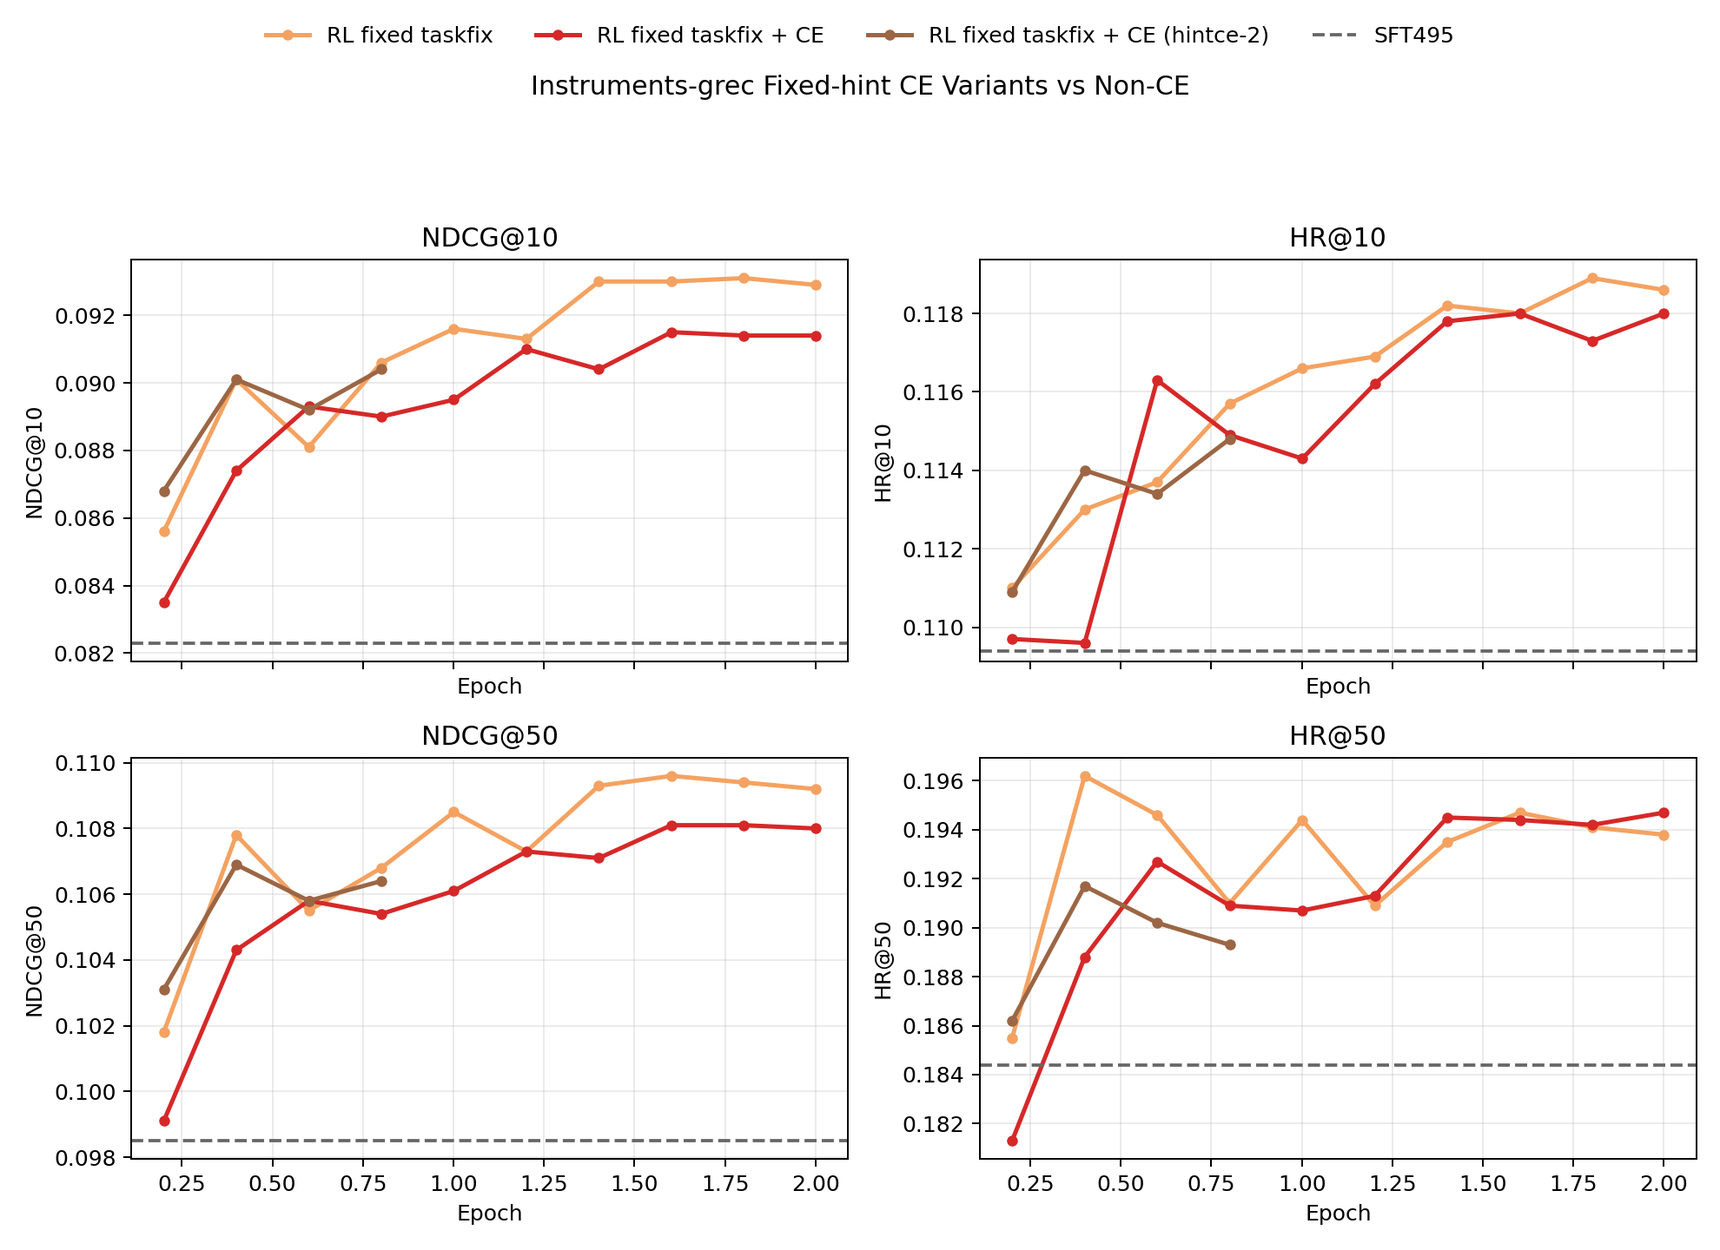
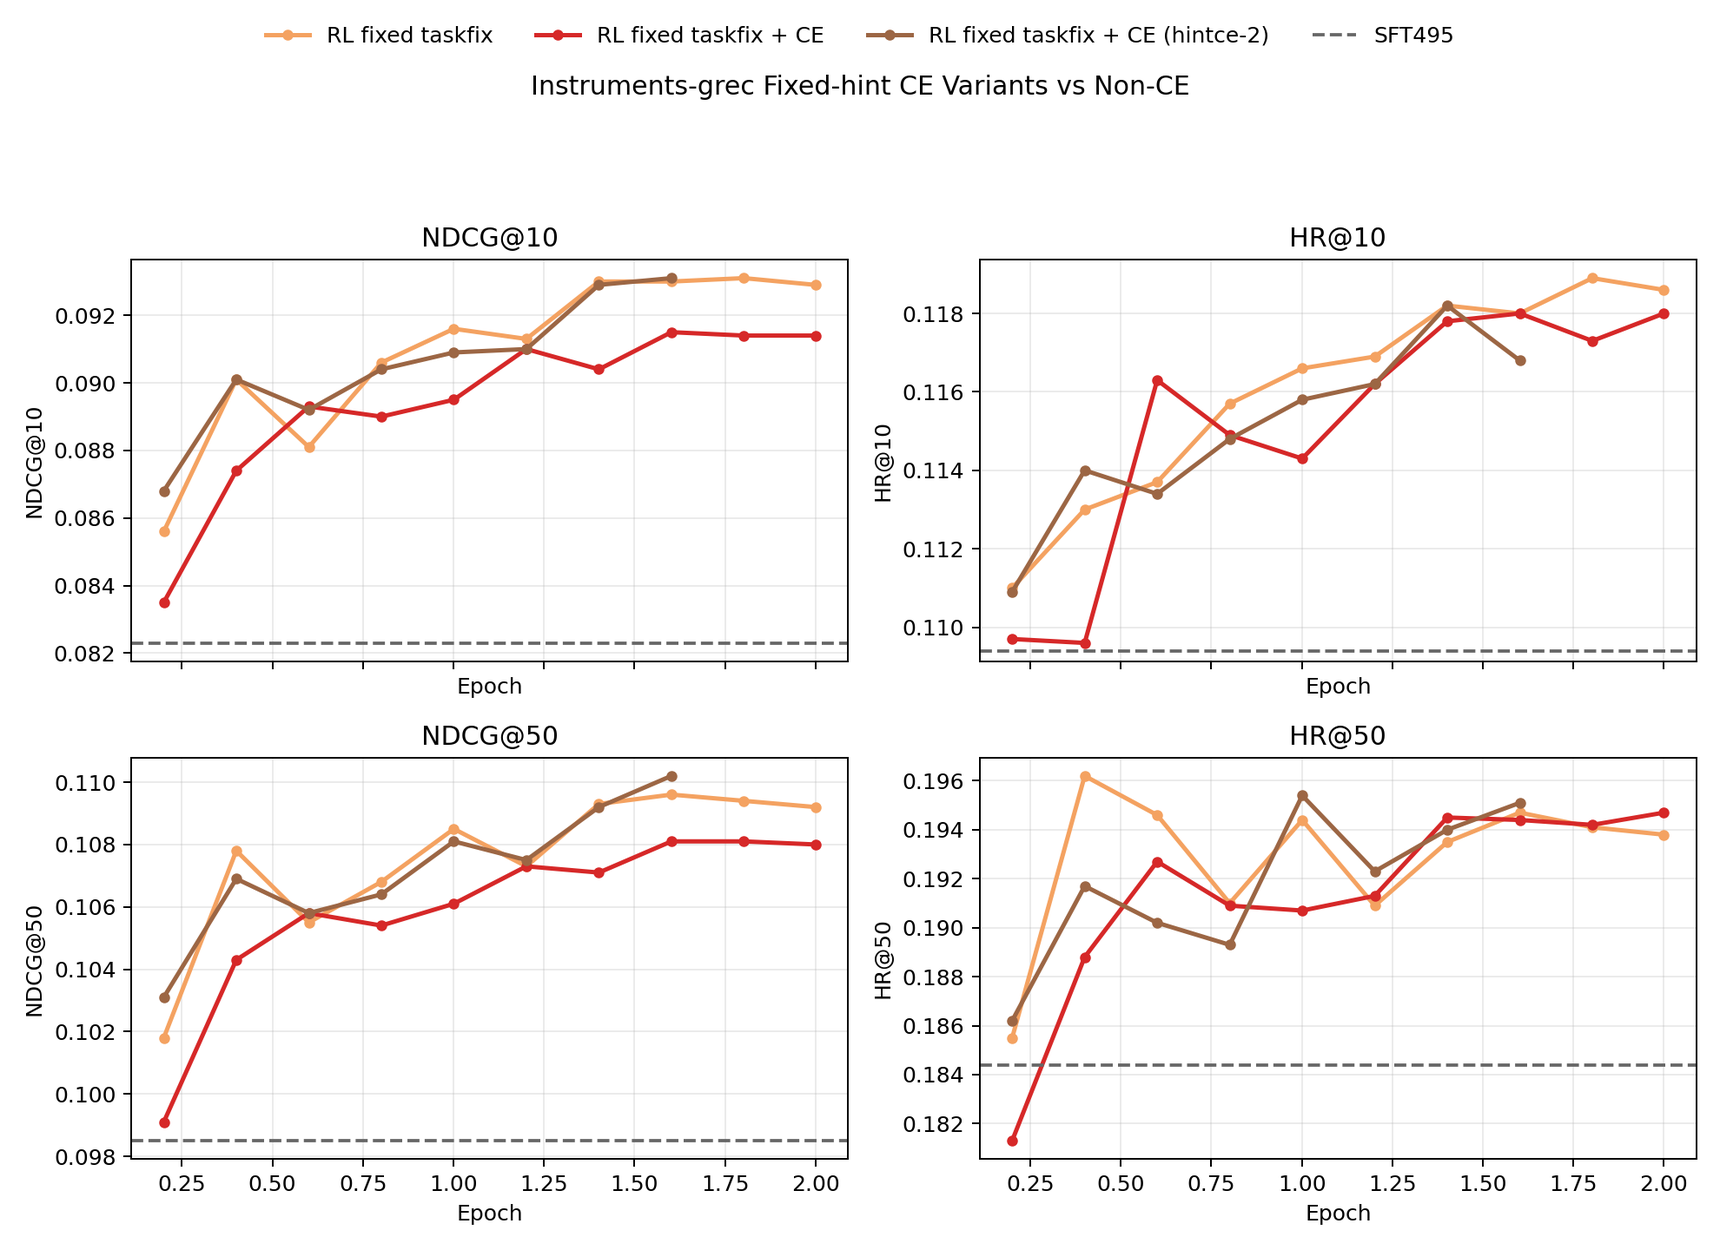
docs(rl): refresh hintce2 and max1 analysis

diff --git a/docs/2026-04-16-instruments-dynamic-hint-max1-ablation.md b/docs/2026-04-16-instruments-dynamic-hint-max1-ablation.md
@@ -1,8 +1,8 @@
 # Instruments Dynamic-Hint Max1 消融结果（2026-04-16）
 
 - Record date: 2026-04-16
-- Last updated: 2026-04-16
-- Status: 已同步 `max1` 结果并完成基于 `checkpoint-*/metrics.json` 的首轮分析；当前只同步到 `checkpoint-1665`，按与长跑 dynamic 线一致的 `3326 step = 2 epoch` 口径，这大约是 `epoch≈1.001`。训练日志和 train-time 标量还没一起同步回来，所以这篇 note 目前只覆盖 eval 侧证据。
+- Last updated: 2026-04-17
+- Status: 已同步 `max1` 结果并完成基于 `checkpoint-*/metrics.json` 的第二轮分析；当前已经同步到 `checkpoint-2997`，按与长跑 dynamic 线一致的 `3326 step = 2 epoch` 口径，这大约是 `epoch≈1.802`。训练日志和 train-time 标量还没一起同步回来，所以这篇 note 目前仍然只覆盖 eval 侧证据。
 - Goal: 在 `Instruments-grec` 上做一个最小改动的 `dynamic hint` 消融，只把 online hint budget 从 `<=3` 收紧到 `<=1`，不改 trainer 逻辑，不引入 no-hit 样本丢弃，然后看它和现有 dynamic / no-hint / fixed-hint 参考线相比到底落在什么位置。
 
 ## 1. 这次实验到底改了什么
@@ -74,7 +74,7 @@
 | `rule_only rerun` | `checkpoint-2997` | 1.802 | 0.0960 | 0.1179 | 0.1070 | 0.1681 | top-10 极值线，但 coverage 很低 |
 | `dynamic hint sid-only` | `checkpoint-2394` | 1.805 | 0.0921 | 0.1155 | 0.1065 | 0.1830 | 早期有 gain，后面偏平 |
 | `dynamic hint gather-fix` | `checkpoint-2997` | 1.802 | 0.0936 | 0.1169 | 0.1083 | 0.1855 | 当前长跑 dynamic baseline |
-| `dynamic hint max1` | `checkpoint-1332` | 0.801 | 0.0934 | 0.1158 | 0.1095 | 0.1905 | 还没跑满 2 epoch，但 top-10 已几乎追平 gather-fix |
+| `dynamic hint max1` | `checkpoint-1332` | 0.801 | 0.0934 | 0.1158 | 0.1095 | 0.1905 | best 点仍停在中前段，后续长尾并没有继续刷新 |
 | corrected `fixed taskfix sid-only` | `checkpoint-2652` | 2.000 | 0.0945 | 0.1205 | 0.1103 | 0.1935 | 当前 clean hint 上界参考 |
 
 按各自 best `NDCG@10` 点比较，`max1` 的关键差值是：
@@ -95,7 +95,7 @@
 | `dynamic hint max1` | `checkpoint-999` | 0.601 | 0.1907 | 0.0925 | peak coverage 略低于 gather-fix，但高于 sid-only 和 rule_only |
 | corrected `fixed taskfix sid-only` | `checkpoint-2652` | 2.000 | 0.1935 | 0.0945 | 仍然是更强的 clean hint 参考 |
 
-如果只看 coverage 峰值，`max1` 还没有超过 `dynamic gather-fix`，差 `0.0024` `HR@50`。但它比 `dynamic sid-only` 高 `0.0039`，比 `rule_only rerun` 高 `0.0139`，因此至少可以确认它不是“hint budget 收紧后 coverage 直接塌掉”的失败 run。更重要的是，这个 peak 发生在 `epoch≈0.601`，也就是它离完整 2 epoch 还早。
+如果只看 coverage 峰值，`max1` 还没有超过 `dynamic gather-fix`，差 `0.0024` `HR@50`。但它比 `dynamic sid-only` 高 `0.0039`，比 `rule_only rerun` 高 `0.0139`，因此至少可以确认它不是“hint budget 收紧后 coverage 直接塌掉”的失败 run。更重要的是，这个 peak 发生在 `epoch≈0.601`，而且后续同步到 `2997` 之后也没有再被刷新。
 
 ### 3.3 共享 checkpoint 的 readout
 
@@ -108,12 +108,17 @@
 | `999` | `0.0925 / 0.1907` | `0.0912 / 0.1905` | `0.0936 / 0.1768` |
 | `1332` | `0.0934 / 0.1905` | `0.0926 / 0.1931` | `0.0945 / 0.1754` |
 | `1665` | `0.0929 / 0.1879` | `0.0933 / 0.1902` | `0.0950 / 0.1743` |
+| `1998` | `0.0915 / 0.1807` | `0.0928 / 0.1857` | `0.0949 / 0.1663` |
+| `2331` | `0.0918 / 0.1776` | `0.0927 / 0.1863` | `0.0953 / 0.1659` |
+| `2664` | `0.0921 / 0.1779` | `0.0930 / 0.1853` | `0.0959 / 0.1684` |
+| `2997` | `0.0920 / 0.1783` | `0.0936 / 0.1855` | `0.0960 / 0.1681` |
 
 从这张表里可以读出三个更细的现象：
 
 - `max1` 在 very early 到 mid phase 不是保守的。它在 `333`（约 `epoch≈0.200`）时就比 `gather-fix` 多 `+0.0031` `NDCG@10`，而 `HR@50` 基本持平。
 - 到 `999` 时，`max1` 已经实现了比 `gather-fix` 更高的 `NDCG@10`，同时 `HR@50` 还略高 `+0.0002`。这说明“浅 hint budget 不一定只能换来更像 `rule_only` 的曲线”，它也可能把 dynamic family 重新推到更好的平衡区。
-- 但 `1665` 这个点提醒我们别过早下结论：按参考口径它只到 `epoch≈1.001`，此时 `gather-fix` 又在四指标上略微反超 `max1`。所以当前更准确的描述是“`max1` 前中期很强”，而不是“它已经无条件支配 `gather-fix`。”
+- 但扩到 `1998/2331/2664/2997` 之后，趋势已经很清楚了：`max1` 在 `epoch≈1.0` 之后持续回落。到 `checkpoint-2997`，它相对自己 best 点少了 `0.0014` `NDCG@10`、少了 `0.0034` `NDCG@50`、少了 `0.0122` `HR@50`。
+- 所以当前更准确的描述已经从“前中期很强”进一步收敛成：“`max1` 是一个明显的 early-stop candidate，但不是更强的 long-run default。”
 
 ## 4. Figure
 
@@ -126,7 +131,7 @@
 - `max1` 明显不是简单退化成 `rule_only`。两条线在 `NDCG@10` 上确实更接近了，但 `max1` 的 `HR@50` 始终高得多，尤其在 `999~1665` 区间一直维持在 `0.188~0.191`，而 `rule_only` 只有 `0.174~0.177`。
 - `max1` 也不是单纯被现有 dynamic baseline 支配。它在 `333/999/1332` 这几个关键点上都能给出比 `gather-fix` 更高的 `NDCG@10`，而 coverage 只在 `666/1332/1665` 这些点略输。
 - 但 `max1` 目前还没有把 fixed-hint upper bound 打穿。corrected `fixed taskfix sid-only` 仍然在四个面板里整体压在更右上侧，说明 “把 dynamic budget 收浅” 和 “直接给更稳定的 fixed hint scaffold” 还是两件事。
-- 由于 `max1` 只同步到 `1665`（约 `epoch≈1.001`），图上真正该读的是“它到中段为止的曲线形状”。如果后面继续跑到 `1998/2331/2664/2997/3326`，它是会像 `gather-fix` 一样继续稳住，还是会像某些 early-strong run 一样回落，现在还不能仅凭这张图决定。
+- 这次最重要的新信息就是：`max1` 现在已经同步到 `2997`（约 `epoch≈1.802`），而后半程走势基本确认了“回落而不是稳住”。换句话说，之前那个“也许只是还没跑完”的保留判断，现在已经大幅收窄了。
 
 ### 4.2 Focused Four-way Comparison
 
@@ -136,22 +141,22 @@
 
 这张四线图只保留 `fixed taskfix`、old `fixed`、`dynamic gather-fix` 和 `max1`，更适合回答“`max1` 到底是在追哪一类行为”：
 
-- `max1` 和 `dynamic gather-fix` 仍然是最接近的一对。两条 dynamic 线在 `333~1665` 的大部分区间都缠得很紧，说明 `max1` 不是跳到了完全不同的方法族。
-- 但 `max1` 在 `NDCG@50 / HR@50` 上明显更往 fixed family 靠。尤其在 `999/1332` 这两个点，它已经把 coverage 拉到接近 corrected `fixed taskfix` 的区间，而 `dynamic gather-fix` 还要再低一些。
+- `max1` 和 `dynamic gather-fix` 在前半程仍然是最接近的一对。两条 dynamic 线在 `333~1665` 的大部分区间都缠得很紧，说明 `max1` 不是跳到了完全不同的方法族。
+- 但新的长尾点把另一件事也说清楚了：`max1` 只是“前半程更往 fixed family 靠”，而不是整条曲线都更靠。到 `1998` 之后，它的 `HR@50` 很快滑到 `0.18` 左右，而 `dynamic gather-fix` 仍稳在 `0.185~0.186` 上方。
 - corrected `fixed taskfix` 依旧保留了最强的 coverage spike，old `fixed` 则给出更平的历史高位平台。把这两条线放进来之后，可以更清楚地看到：`max1` 目前更像是在 dynamic family 内部向 fixed trade-off 靠拢，而不是已经真正进入 fixed family 的 top-right 区域。
 - 这也是为什么我现在更愿意把 `max1` 叫作“最有希望的 shallow-budget dynamic”，而不是直接叫它新的 fixed 替代品。
 
 ## 5. Conclusions
 
-1. `max1` 当前可以算是最有希望的 shallow-budget dynamic 变体。按 best-point 看，它几乎追平 `dynamic gather-fix` 的 top-10，但把 `HR@50` 提高了 `+0.0050`。
+1. `max1` 仍然是最有意思的 shallow-budget dynamic 变体之一，但新的长尾结果说明它更像一个 early-stop 候选，而不是新的长期默认线。按 best-point 看，它几乎追平 `dynamic gather-fix` 的 top-10，并把 `HR@50` 提高了 `+0.0050`；但这些优势都停在前半程。
 2. 相比 `rule_only rerun`，`max1` 很明确地买回了 coverage，而且代价没有想象中大。它只丢了 `0.0026` `NDCG@10`，却多了 `0.0224` `HR@50`。
-3. `max1` 还没有超过 corrected `fixed taskfix sid-only` 这条 clean fixed 参考线，所以当前更稳妥的定位不是“新最优方法”，而是“当前 dynamic family 里最接近 fixed trade-off 的候选”。
-4. 现在最该防的误读是把这条 run 直接定性成“已经优于 gather-fix”。更严谨的说法是：它在 `333~1332`（约 `epoch≈0.200~0.801`）的前中期表现非常强，但到 `1665`（约 `epoch≈1.001`）时 `gather-fix` 又稍微拿回了优势。
+3. `max1` 还没有超过 corrected `fixed taskfix sid-only` 这条 clean fixed 参考线，所以当前更稳妥的定位不是“新最优方法”，而是“当前 dynamic family 里一个值得 early-stop 的候选”。
+4. 现在最该防的误读已经不只是“它可能还没跑完”。更严谨的说法是：它在 `333~1332`（约 `epoch≈0.200~0.801`）的前中期表现非常强，但从 `1665` 往后就开始持续落后于 `gather-fix`，而且这个差距在 `1998~2997` 区间已经稳定存在。
 5. 因为 train-time 日志还没同步回来，这篇 note 只能支持 eval-side 结论。`selected_hint_depth_mean`、`selected_depth_1_frac`、`mean_length` 等机制解释现在仍然是待验证假说，不应该写成已经被日志证实。
 
 ## 6. Next Actions
 
 1. 把 `max1` 对应的 launcher log 或 wandb 导出一起同步回来，优先验证 `dynamic_hint_max_depth=1`、`selected_hint_depth_mean`、`selected_depth_1_frac`、`max_depth_miss_frac` 和 `completions/mean_length`。
-2. 如果这条 run 还在继续，优先补到 `1998/2331/2664/2997/3326`。当前真正缺的不是更多 baseline，而是 `max1` 自己的 late-stage trace。
-3. 如果后续要给 dynamic family 选默认线，我会先把 `max1` 和 `gather-fix` 做一次 task-level 对照，尤其看 hardest slice 是否仍然保住 coverage。
+2. 如果这条 run 还会继续，`3326` 当然还值得补齐；但现在真正更重要的不是“等最后一个点”，而是把 `999/1332` 这两个 best-window checkpoint 当作候选 early-stop 点认真分析。
+3. 如果后续要给 dynamic family 选默认线，我会先把 `max1` 和 `gather-fix` 做一次 task-level 对照，尤其看 `max1` 的前半程优势是否集中在某几个 slice，以及后半程回落主要伤在哪些 slice。
 4. 如果后续要做更激进的 budget 实验，下一步更合理的是围绕 `max1` 补 trainer-side diagnostics，而不是直接跳到“hint1 miss 就丢样本”的更大改动。

diff --git a/docs/2026-04-11-genrec-instruments-rl-variant-comparison.md b/docs/2026-04-11-genrec-instruments-rl-variant-comparison.md
@@ -1,9 +1,9 @@
 # GenRec Instruments RL 七线主比较 + fixed-hint CE 补充（2026-04-11）
 
 - Record date: 2026-04-11
-- Last updated: 2026-04-16
+- Last updated: 2026-04-17
 - Goal: 把当前 `Instruments-grec` 里最常被一起讨论的 7 条 RL 线放到同一篇文档里，用统一 checkpoint 评测表和统一图片做一次手工对比，重点看 top-10 与 coverage 的取舍；同时补一个 focused `fixed-hint CE` 小节。
-- Current status: 已基于本地同步好的 `results/.../checkpoint-*/metrics.json` 重生七线对比图和导出表；`fixed taskfix` CE 小节现在纳入 non-CE、full `+CE` 和新的 `hintce-2` 短跑结果。
+- Current status: 已基于本地同步好的 `results/.../checkpoint-*/metrics.json` 重生七线对比图和导出表；`fixed taskfix` CE 小节现在纳入 non-CE、full `+CE` 和扩展到 `checkpoint-2664` 的 `hintce-2` 结果。
 
 ## 1. Config
 
@@ -93,18 +93,19 @@
 | --- | --- | ---: | ---: | ---: | ---: | ---: | ---: | ---: | --- |
 | corrected `fixed taskfix` | `checkpoint-2997` | 1.802 | 0.0931 | 0.1189 | 0.1094 | 0.1941 | 0.1962 | 0.400 | top-10 最强，但 early coverage spike 最明显 |
 | corrected `fixed taskfix + CE` | `checkpoint-2664` | 1.602 | 0.0915 | 0.1180 | 0.1081 | 0.1944 | 0.1947 | 2.000 | top-10 略弱，但 coverage 被拉成晚期平台 |
-| corrected `fixed taskfix + CE (hintce-2)` | `checkpoint-1332` | 0.801 | 0.0904 | 0.1148 | 0.1064 | 0.1893 | 0.1917 | 0.400 | 目前只跑到 `1332/3326`，仍是 early-run readout |
+| corrected `fixed taskfix + CE (hintce-2)` | `checkpoint-2664` | 1.602 | 0.0931 | 0.1168 | 0.1102 | 0.1951 | 0.1954 | 1.001 | 当前最强 CE 变体，但 trace 仍只到 `2664/3326` |
 
-这里要单独说明两点：
+这里要单独说明三点：
 
-- `hintce-2` 目前只有 `checkpoint-333/666/999/1332` 四个点，但它的 epoch 口径现在按 fixed family 的完整训练步数 `3326` 对齐，所以 `checkpoint-1332` 只对应 `epoch≈0.801`，`checkpoint-666` 的 coverage 峰值也只对应 `epoch≈0.400`。
-- full `+CE` 的 peak `HR@50` 现在应记为 `0.1947 @ checkpoint-3326`。之前把它写成 `0.1945 @ checkpoint-2331` 只是一个较早读数，不是当前同步结果里的最终峰值。
+- `hintce-2` 现在已经从 `checkpoint-1332` 扩到了 `checkpoint-2664`。它仍按 fixed family 的完整训练步数 `3326` 对齐，所以 best 点 `checkpoint-2664` 对应 `epoch≈1.602`，coverage 峰值 `checkpoint-1665` 对应 `epoch≈1.001`。
+- full `+CE` 的 peak `HR@50` 现在仍记为 `0.1947 @ checkpoint-3326`；而 `hintce-2` 的 peak `HR@50` 已经到 `0.1954 @ checkpoint-1665`。
+- 因此 `hintce-2` 已经不再只是 “early-run readout”。更准确的描述是：它现在是当前最强的 CE 变体，但因为 trace 还没到 `2997/3326`，还不能直接宣称它最终支配 non-CE。
 
-如果只看三条线共享的 `333/666/999/1332` 四个 checkpoint，可以得到更细的 early-train readout：
+按 best checkpoint 直接比较：
 
-- `hintce-2` 相对 full `+CE` 的 `NDCG@10` 差值依次是 `+0.0033`、`+0.0027`、`-0.0001`、`+0.0014`，说明它在早期 top-10 恢复更快。
-- 但 `HR@50` 只在 `333/666` 领先 full `+CE`（`+0.0049`、`+0.0029`），到了 `999/1332` 反而落后（`-0.0025`、`-0.0016`）。
-- 因此当前更合理的解释不是“`hintce-2` 已经赢了 full `+CE`”，而是“它像一个更激进的 early-train CE 变体，起量更快，但 late coverage 平台还没有证据超过 full `+CE`。”
+- `hintce-2` 相对 full `+CE` 多 `+0.0016` `NDCG@10`、少 `0.0012` `HR@10`、多 `+0.0021` `NDCG@50`、多 `+0.0007` `HR@50`，而且 peak `HR@50` 也再高 `+0.0007`。
+- `hintce-2` 相对 non-CE `fixed taskfix` 在 `NDCG@10` 上已经打平（都是 `0.0931`），`HR@10` 少 `0.0021`，但 `NDCG@50` 反而多 `+0.0008`、`HR@50` 多 `+0.0010`。
+- 这意味着当前最合理的解释已经从“更激进的 early-train CE 变体”变成“当前最有前景的 CE candidate”。
 
 ## 4. Manual Picture Comparison
 
@@ -158,9 +159,9 @@
 这两张图现在更适合读成“三线对比”，而不是单纯的 `+CE` / non-CE 二选一：
 
 - non-CE `fixed taskfix` 依然是更强的 headline top-10 线：best 点停在 `checkpoint-2997 / NDCG@10=0.0931`，并且在后半程 `NDCG@10` 与 `HR@10` 仍保持领先。
-- full `+CE` 没有把 peak coverage 推得更高，但明显把轨迹变平了。它没有 non-CE 那种 `epoch≈0.4` 的巨大 early spike，而是一路推到最右侧，最后形成 `HR@50≈0.1944~0.1947` 的晚期平台。
-- `hintce-2` 落在两者之间。它在 `333/666` 两个共享点同时优于 full `+CE` 的 top-10 和 coverage，更像一个更激进的 early-train 版本；但到 `1332` 时，`NDCG@10` 仍然低于 non-CE，`HR@50` 也略低于 full `+CE`。
-- 因为 `hintce-2` trace 只到 `1332`，当前图最该读的是“它的早期曲线形状”，而不是“它已经赢下最终设置”。在没有 `1665/1998/2664/3326` 后续点之前，不应该把它直接升成新的 CE 默认线。
+- full `+CE` 仍然最像“把 coverage 拉平为晚期平台”的正则版本。它没有 non-CE 那种 `epoch≈0.4` 的巨大 early spike，而是一路推到最右侧，最后形成 `HR@50≈0.1944~0.1947` 的晚期平台。
+- `hintce-2` 已经不再只是落在两者中间。扩到 `2664` 之后，它在 best 点上已经把 `NDCG@10` 拉到和 non-CE 持平，同时 `NDCG@50 / HR@50` 都超过 full `+CE`，而 peak `HR@50` 也抬到了 `0.1954`。
+- 当前真正需要保留的 caveat 只剩一个：`hintce-2` 还没到 `2997/3326`。所以它已经足够被视为 strongest CE variant，但还不该被写成“最终已经完全赢过 non-CE”。
 
 ### 4.5 Top-10 / Coverage Trade-off Scatter
 
@@ -180,13 +181,13 @@
 2. 在 dynamic family 里，`dynamic gather-fix` 仍应作为当前长跑默认对比线。它相对 `dynamic sid-only` 和 `ranking dynamic` 都是四指标同时更强的。
 3. 在 fixed family 里，corrected `fixed hint taskfix sid-only` 已经基本复现 old `fixed mixed-single` 的主要收益，而且定义更干净。后续如果只保留一个 clean fixed 参考线，优先保留它。
 4. corrected `fixed hint taskfix` 给出了当前最高的 coverage 峰值 `HR@50=0.1962`。如果后续要研究 early-stop 或 explicit coverage objective，这条线仍然值得单独盯。
-5. full `+CE` 现在更像一个“平滑训练轨迹”的正则项，而不是提升 headline 指标的增强项。它把 early spike 拉成了晚期 coverage 平台，但没有在 top-10 上超过 non-CE。
-6. `hintce-2` 是一个值得继续的 early-train 变体，但当前证据只够支持“起量更快”，还不够支持“最终更好”。在没有更长 trace 之前，它不该替代 full `+CE` 进入主结论。
+5. full `+CE` 现在更像一个“平滑训练轨迹”的正则项，而不是提升 headline 指标的增强项。它把 early spike 拉成了晚期 coverage 平台，但在 top-10 上仍然弱于 non-CE 和 `hintce-2`。
+6. `hintce-2` 现在已经是最强的 CE 变体，不再只是 early-train curiosity。它在 `NDCG@10` 上追平 non-CE，同时在 `NDCG@50 / HR@50` 上给出更好的 balanced readout；剩余问题只是不知道跑到 `2997/3326` 后能否稳住。
 7. old `fixed hint mixed-single` 仍然是很有价值的现象学上界，但它不适合再被当作“更正确的方法”。在公开汇报或主结论里，最好把它标成 historical / bug-tainted reference。
 
 ## 6. Next Actions
 
 1. 下一版主结果对比可以收缩成 4 条主线：`rule_only rerun`、`dynamic gather-fix`、corrected `fixed taskfix sid-only`、old `fixed mixed-single`（只作为 historical reference）。
 2. 如果目标是 coverage，不要只看最终 checkpoint；应该补更密的 early-stop 评测，优先围绕 corrected `fixed taskfix` 的 `checkpoint-666` 和 `dynamic gather-fix` 的 `checkpoint-1332`。
-3. 如果继续追 CE 方向，优先不是再加新命名，而是把 `hintce-2` 跑到至少 `2664/3326`，先看它会不会真的收敛到比 full `+CE` 更好的 late platform。
+3. 如果继续追 CE 方向，优先不是再加新命名，而是把 `hintce-2` 补到至少 `2997/3326`，先看它能不能把当前 `2664` 的 balanced 优势稳到 full trace 末端。
 4. 如果后续要对任务层面下结论，应该把这些主线再按 `task1_sid_sft`、`task4_hisTitle2sid`、`task5_title_desc2sid` 分开看。当前这篇 note 只覆盖 aggregate eval，不足以单独支持 task-level 结论，尤其 old fixed 的 bug 主要会扭曲 hardest task 的 hint 深度。
